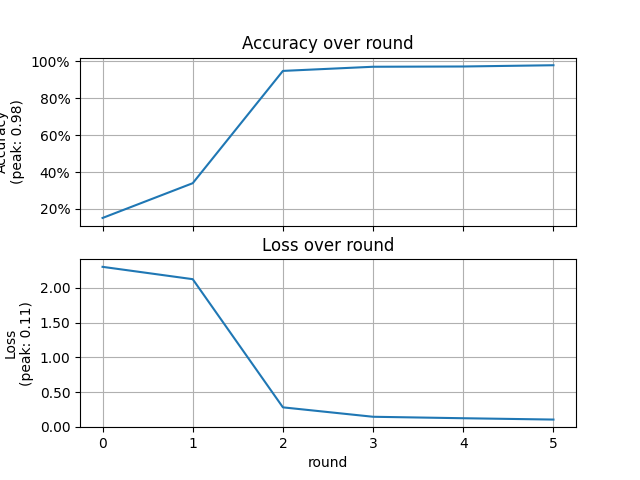
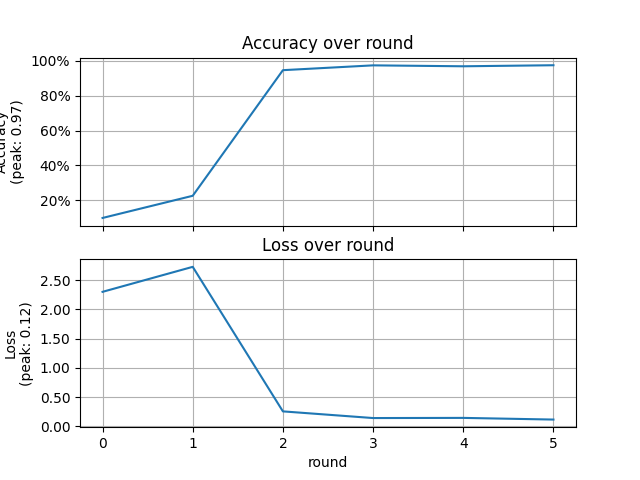
fix: poisoning

diff --git a/src/FlowerClient.py b/src/FlowerClient.py
@@ -58,7 +58,7 @@ class FlowerClient(fl.client.NumPyClient):
         #if noise_type == "random":
         noise += np.random.rand(rows, cols, channels) * scale
         #elif noise_type == "gaussian":
-        #noise += np.random.normal(0, scale, size=img.shape)
+        noise += np.random.normal(0, scale, size=img.shape)
 
         # Clip noise values to be within image value range (usually 0-255)
         perturbed_img = np.clip(img + noise, 0, 255)

diff --git a/src/main.py b/src/main.py
@@ -68,8 +68,8 @@ def clear_ram():
 #       no poisoning
 #
 #####################################
-start_mnist(False)
-clear_ram()
+# start_mnist(False)
+# clear_ram()
 
 # start_cifa10(False)
 # clear_ram()
@@ -83,8 +83,8 @@ clear_ram()
 #        poisoning
 #
 #####################################
-# start_mnist(True)
-# clear_ram()
+start_mnist(True)
+clear_ram()
 
 # start_cifa10(True)
 # clear_ram()
